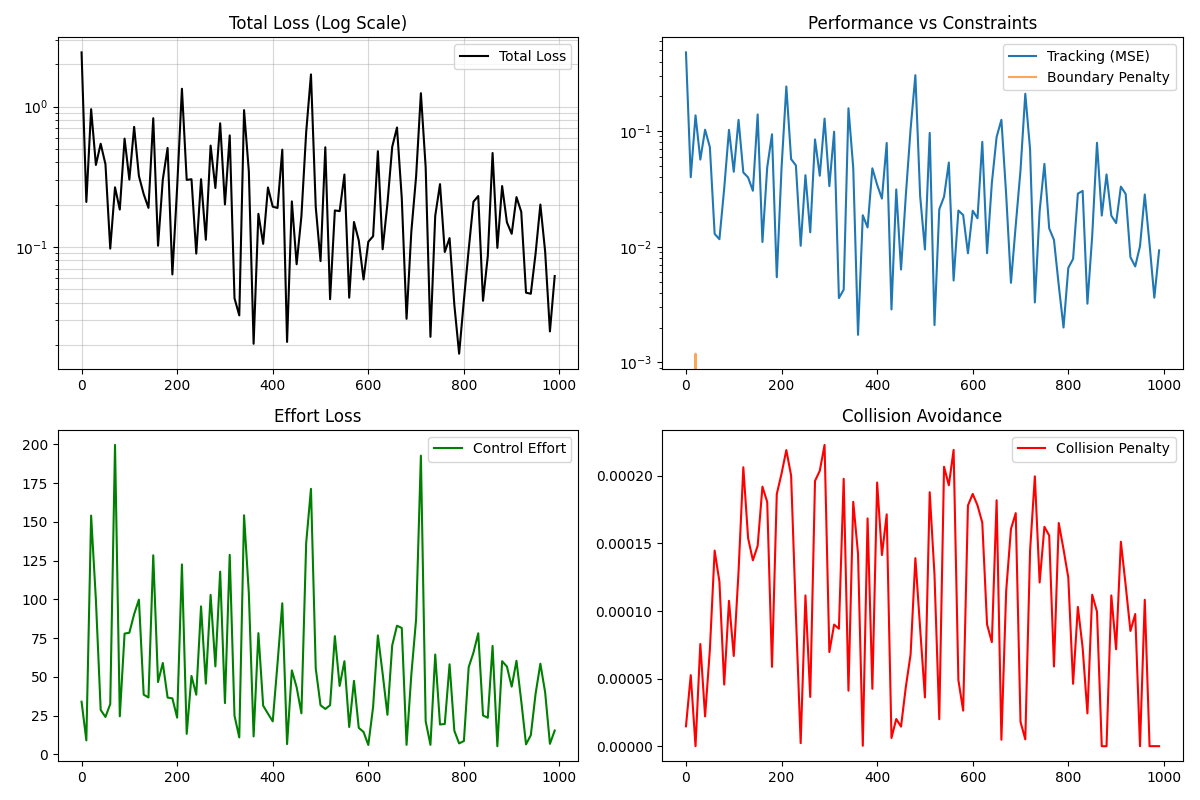
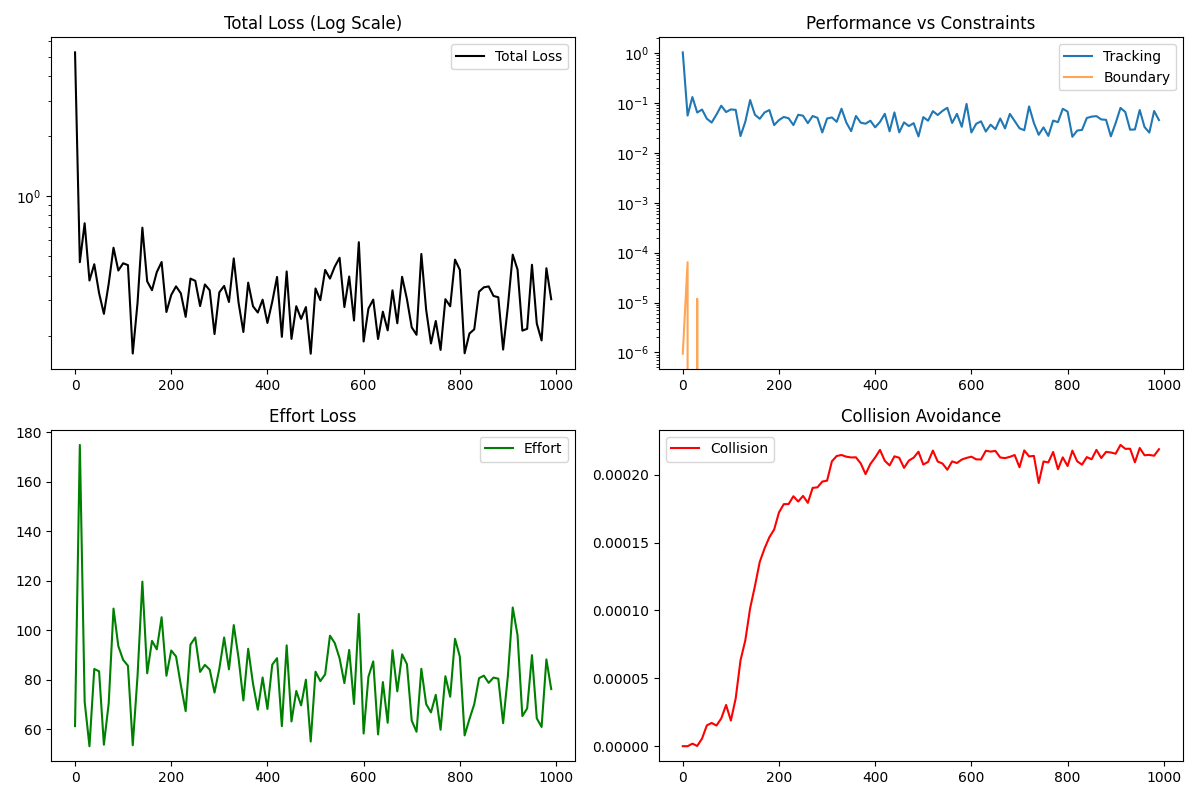
batching for training stability

diff --git a/code_trails3/Combine_solver_n_MLP/main_new.py b/code_trails3/Combine_solver_n_MLP/main_new.py
@@ -24,26 +24,23 @@ print("Initializing environment and model...")
 # Load Tesseract Solver
 solver_ts = Tesseract.from_image("solver_v1")
 
-
 # Dimensions
 n_pde = 100
 n_agents = 4
-input_dim = n_pde * 2 # PDE state + Target
-output_dim = 4 # u(4) only, v(4) is zeroed in split_action
+batch_size = 16  # Moderate batch size for CPU stability
 
 # Hyperparameters
 learning_rate = 1e-3 
-
 lr_schedule = optax.exponential_decay(
     init_value=learning_rate,
     transition_steps=2000,
     decay_rate=0.5
 )
 epochs = 1000
-T_steps = 500
+T_steps = 300 # Balanced horizon
 R_safe = 0.05
 
-# Initialize MLP
+# Initialize Model
 model = ControlNet(features=(64, 64))
 key = jax.random.PRNGKey(0)
 
@@ -52,8 +49,11 @@ dummy_target = jnp.zeros((n_pde,))
 dummy_xi = jnp.zeros((n_agents,))
 params = model.init(key, dummy_z, dummy_target, dummy_xi)
 
-# Optimizer
-optimizer = optax.adam(lr_schedule)
+# Optimizer with Scheduler and Global Gradient Clipping
+optimizer = optax.chain(
+    optax.clip_by_global_norm(1.0),
+    optax.adam(lr_schedule)
+)
 opt_state = optimizer.init(params)
 
 print("Model and Optimizer initialized.")
@@ -63,11 +63,7 @@ print("Model and Optimizer initialized.")
 def rollout_fn(params, z_init, xi_init, z_target, dynamics):
     def step_fn(carry, _):
         z_curr, xi_curr = carry
-        
-        # Policy now takes xi_curr as an explicit input
-        # No more jax.newaxis hacks here; let's keep it clean
         u_action, v_action = model.apply(params, z_curr, z_target, xi_curr)
-        
         actions = {'u': u_action, 'v': v_action}
         
         with jax.default_device(jax.devices("cpu")[0]):
@@ -83,141 +79,112 @@ def rollout_fn(params, z_init, xi_init, z_target, dynamics):
 def loss_fn(params, z_init, xi_init, z_target, dynamics):
     z_traj, xi_traj, u_traj, v_traj = rollout_fn(params, z_init, xi_init, z_target, dynamics)
     
-    # 1. Tracking Loss (Global Error)
+    # 1. Tracking Loss
     l_track = jnp.mean((z_traj - z_target[None, :]) ** 2)
     
     # 2. Effort Loss
     l_effort = jnp.mean(u_traj ** 2) + 0.1 * jnp.mean(v_traj ** 2)
     
-    # 3. Improved Boundary Penalty using max(0, dist)^2
-    # We define a "safety buffer" (e.g., 0.02) from the edges [0, 1]
+    # 3. Boundary Penalty
     margin = 0.02
-    
-    # Violation if xi < margin
     left_violation = jnp.maximum(0, margin - xi_traj) 
-    # Violation if xi > (1 - margin)
     right_violation = jnp.maximum(0, xi_traj - (1.0 - margin))
-    
-    # Summing squared violations provides a "wall" that gets steeper the further you go out
     l_bound = jnp.mean(left_violation**2 + right_violation**2)
     
-    # 4. Collision Avoidance (Keeping the one-sided logic you already had)
+    # 4. Collision Avoidance
     xi_exp = xi_traj[:, :, None]
     xi_t_exp = xi_traj[:, None, :]
     dists = jnp.abs(xi_exp - xi_t_exp)
     mask = jnp.eye(n_agents)[None, :, :]
     dists = dists + mask * 1.0 
-    
     l_coll = jnp.mean(jnp.maximum(0, R_safe - dists) ** 2)
     
+    # 5. Damping (Acceleration Penalty)
     v_diff = jnp.diff(v_traj, axis=0)
     l_accel = jnp.mean(v_diff**2)
 
-    total_loss = 5 * l_track + 0.001 * l_effort + 100.0 * l_bound + 1.0 * l_coll + 0.1 * l_accel
-    
+    total_loss = 5.0 * l_track + 0.001 * l_effort + 100.0 * l_bound + 1.0 * l_coll + 0.1 * l_accel
     return total_loss, (l_track, l_effort, l_coll, l_bound)
 
 @partial(jax.jit, static_argnames='dynamics')
-def train_step(params, opt_state, z_init, xi_init, z_target, dynamics):
-    (loss, aux), grads = jax.value_and_grad(loss_fn, has_aux=True)(
-        params, z_init, xi_init, z_target, dynamics
-    )
-    # Gradient clipping
-    grads = jax.tree_util.tree_map(lambda g: jnp.clip(g, -1.0, 1.0), grads)
-    updates, opt_state = optimizer.update(grads, opt_state)
+def train_step(params, opt_state, z_init_batch, xi_init_batch, z_target_batch, dynamics):
+    # Vectorize the loss function over the batch dimension (axis 0)
+    batched_loss_fn = jax.vmap(loss_fn, in_axes=(None, 0, 0, 0, None))
+    
+    def mean_loss_fn(p):
+        losses, auxs = batched_loss_fn(p, z_init_batch, xi_init_batch, z_target_batch, dynamics)
+        return jnp.mean(losses), jax.tree_util.tree_map(jnp.mean, auxs)
+
+    (loss, aux), grads = jax.value_and_grad(mean_loss_fn, has_aux=True)(params)
+    
+    updates, opt_state = optimizer.update(grads, opt_state, params)
     params = optax.apply_updates(params, updates)
     return params, opt_state, loss, aux
 
 # --- 3. Main Training Loop ---
 with solver_ts:
     dynamics = PDEDynamics(solver_ts, use_tesseract=False)
-    
-    print(f"Starting Training for {epochs} epochs...")
+    print(f"Starting Training for {epochs} epochs with Batch Size {batch_size}...")
     
     metrics = []
-    
     start_time = time.time()
+    
     for epoch in range(epochs):
-        # Sample Environment
-        # Split key
-        key, subkey1, subkey2 = jax.random.split(key, 3)
+        # Sample Batch Environment
+        key, subkey = jax.random.split(key)
+        subkeys = jax.random.split(subkey, batch_size)
         
-        # Initial condition: GRF with lengthscale 0.2
-        _, z_init = data_utils.generate_grf(subkey1, n_points=n_pde, length_scale=0.2)
-        if jnp.isnan(z_init).any():
-            print("NaN in z_init!")
+        # Batched data generation
+        # We use vmap over the generator to create the batch
+        def gen_sample(k):
+            k1, k2 = jax.random.split(k)
+            _, z_i = data_utils.generate_grf(k1, n_points=n_pde, length_scale=0.2)
+            _, z_t = data_utils.generate_grf(k2, n_points=n_pde, length_scale=0.4)
+            return z_i, z_t
+            
+        z_init_batch, z_target_batch = jax.vmap(gen_sample)(subkeys)
+        xi_init_batch = jnp.tile(jnp.array([0.2, 0.4, 0.6, 0.8]), (batch_size, 1))
 
-        # Target: GRF with lengthscale 0.4
-        _, z_target = data_utils.generate_grf(subkey2, n_points=n_pde, length_scale=0.4)
-        
-        # Initial positions: Fixed or random? User says "generated from grf" for initial condition "and target trajectories".
-        # Initial agent positions usually fixed or random in domain.
-        # Let's keep them fixed for stability or add small noise.
-        xi_init = jnp.array([0.2, 0.4, 0.6, 0.8])
-        
-        # Train Step
-
+        # Train Step on Batch
         params, opt_state, loss, aux = train_step(
-            params, opt_state, z_init, xi_init, z_target, dynamics
+            params, opt_state, z_init_batch, xi_init_batch, z_target_batch, dynamics
         )
         l_track, l_effort, l_coll, l_bound = aux
         
         if epoch % 10 == 0:
             elapsed = time.time() - start_time
-            print(f"Epoch {epoch:03d} | Time: {elapsed:.2f}s | Loss: {loss:.6f} | Track: {l_track:.6f} | Effort: {l_effort:.6f} | Coll: {l_coll:.6f}")
-            metrics.append((epoch, loss, l_track, l_effort, l_coll, l_bound))    
+            print(f"Epoch {epoch:03d} | Loss: {loss:.6f} | Track: {l_track:.6f} | Coll: {l_coll:.6f}")
+            metrics.append((epoch, loss, l_track, l_effort, l_coll, l_bound)) 
 
-            
     total_time = time.time() - start_time
     print(f"Training complete. Total time: {total_time:.2f}s")
     
     # --- 4. Plotting and Saving Loss ---
-    print("Saving loss plots...")
     metrics = jnp.array(metrics)
     epochs_recorded = metrics[:, 0]
-    total_loss = metrics[:, 1]
-    tracking_loss = metrics[:, 2]
-    effort_loss = metrics[:, 3]
-    collision_loss = metrics[:, 4]
-    boundary_penalty = metrics[:, 5]
-    # print(boundary_penalty)
-
+    
     plt.figure(figsize=(12, 8))
-
-    # Plot Total Loss
     plt.subplot(2, 2, 1)
-    plt.plot(epochs_recorded, total_loss, label='Total Loss', color='black')
-    plt.yscale('log')
-    plt.title('Total Loss (Log Scale)')
-    plt.grid(True, which="both", ls="-", alpha=0.5)
-    plt.legend()
+    plt.plot(epochs_recorded, metrics[:, 1], color='black', label='Total Loss')
+    plt.yscale('log'); plt.title('Total Loss (Log Scale)'); plt.legend()
 
-    # Plot Tracking vs Boundary
     plt.subplot(2, 2, 2)
-    plt.plot(epochs_recorded, tracking_loss, label='Tracking (MSE)')
-    plt.plot(epochs_recorded, boundary_penalty, label='Boundary Penalty', alpha=0.7)
-    plt.yscale('log')
-    plt.title('Performance vs Constraints')
-    plt.legend()
+    plt.plot(epochs_recorded, metrics[:, 2], label='Tracking')
+    plt.plot(epochs_recorded, metrics[:, 5], label='Boundary', alpha=0.7)
+    plt.yscale('log'); plt.title('Performance vs Constraints'); plt.legend()
 
-    # Plot Effort
     plt.subplot(2, 2, 3)
-    plt.plot(epochs_recorded, effort_loss, label='Control Effort', color='green')
-    plt.title('Effort Loss')
-    plt.legend()
+    plt.plot(epochs_recorded, metrics[:, 3], color='green', label='Effort')
+    plt.title('Effort Loss'); plt.legend()
 
-    # Plot Collisions
     plt.subplot(2, 2, 4)
-    plt.plot(epochs_recorded, collision_loss, label='Collision Penalty', color='red')
-    plt.title('Collision Avoidance')
-    plt.legend()
+    plt.plot(epochs_recorded, metrics[:, 4], color='red', label='Collision')
+    plt.title('Collision Avoidance'); plt.legend()
 
     plt.tight_layout()
     plt.savefig('training_metrics.png')
-    print("Loss plot saved as training_metrics.png")
     
     # Save parameters
     import flax.serialization
     with open('model_params.msgpack', 'wb') as f:
         f.write(flax.serialization.to_bytes(params))
-    print("Model parameters saved to model_params.msgpack")
